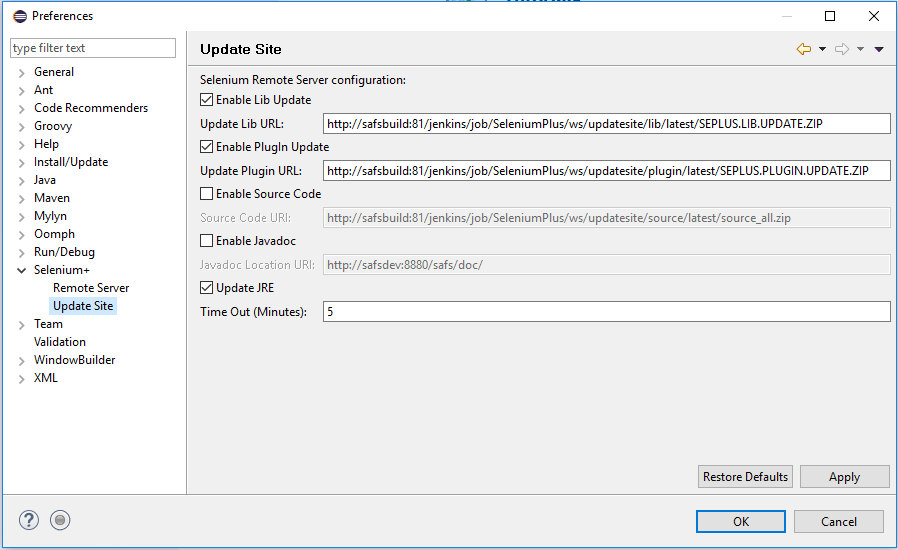
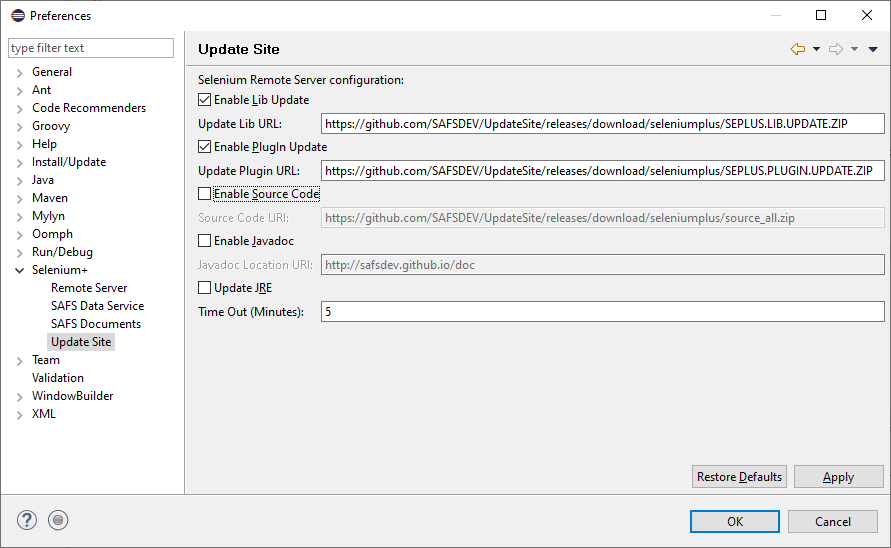
Using github update-site.

diff --git a/src/org/safs/selenium/install/doc/SeleniumPlus-Welcome.html b/src/org/safs/selenium/install/doc/SeleniumPlus-Welcome.html
@@ -1687,16 +1687,16 @@ Before update, make sure correct Selenium+ "<b>Update Site</b>" preferences are 
 	    <ol>
 	    <li>Enable Lib Update<br>
 	        It is used to enable/disable Library Update. There is an associate InputBox "Update Lib URL", where the Library Update URL can be modified.<br>
-	        Make sure that the URL starts with "<b>http://safsbuild:81</b>" if you want to get the latest support.
+	        Set the URL as "<b>https://github.com/SAFSDEV/UpdateSite/releases/download/seleniumplus/SEPLUS.LIB.UPDATE.ZIP</b>" if you want to get the latest support.
 	    <li>Enable Plugin Update<br>
 	        It is used to enable/disable Plugin Update. There is an associate InputBox "Update Plugin URL", where the Plugin Update URL can be modified.<br>
-	        Make sure that the URL starts with "<b>http://safsbuild:81</b>" if you want to get the latest support.
+	        Set the URL as "<b>https://github.com/SAFSDEV/UpdateSite/releases/download/seleniumplus/SEPLUS.PLUGIN.UPDATE.ZIP</b>" if you want to get the latest support.
 	    <li>Enable Source Code<br>
 	        It is used to enable/disable Source Code Update. There is an associate InputBox "Source Code URL", where the Source Code Update URL can be modified.<br>
-	        Make sure that the URL starts with "<b>http://safsbuild:81</b>" if you want to get the latest support.
+	        Set the URL as "<b>https://github.com/SAFSDEV/UpdateSite/releases/download/seleniumplus/source_all.zip</b>" if you want to get the latest support.
 	    <li>Enable Javadoc<br>
 	        It is used to enable/disable Javadoc in SeleniumPlus project. There is an associate InputBox "Javadoc Location URL", where the Javadoc Location URL can be modified.<br>
-	        Make sure that the URL is "<b>https://safsdev.github.io/doc</b>" if you want to get the latest support.
+	        Set the URL as "<b>http://safsdev.github.io/doc</b>" if you want to get the latest support.
 	    <li>Update JRE<br>
 	        It is used to enable/disable embedded JRE Update.
 	    </ol>
@@ -1738,24 +1738,19 @@ For Updating SeleniumPlus, following are the steps.
 	The batch script "<b>updateRuntime.bat</b>" can be used to update SeleniumPlus/SAFS.<br/>
 	This script expects that "SeleniumPlus"/"SAFS" has already successfully installed, so the system environment SELENIUM_PLUS/SAFSDIR has been defined correctly.<br/>
 	<p>
-	This script should be in folder %SELENIUM_PLUS%\extra or %SAFSDIR%\extra. If it does not exist, please get its <a href="http://safsbuild:81/jenkins/view/GITLAB_JOBS/job/SeleniumPlus/ws/source/common/org/safs/selenium/install/extra/updateRuntime.bat" target="blank">sourcecode</a> manually and copy it to "%SELENIUM_PLUS%\extra\".<br/>
+	This script should be in folder %SELENIUM_PLUS%\extra or %SAFSDIR%\extra. If it does not exist, please get its <a href="https://github.com/SAFSDEV/Core/blob/master/src/org/safs/selenium/install/extra/updateRuntime.bat" target="blank">sourcecode</a> manually and copy it to "%SELENIUM_PLUS%\extra\".<br/>
 	The script usage is <span class="sourcecodes">updateRuntime.bat [ALL|SE|SAFS]</span>, with parameter "SE" it updates SeleniumPlus, with "SAFS" it updates SAFS, with "ALL" it updates both "SeleniumPlus" and "SAFS".<br/>
 	So call <span class="commandline">updateRuntime.bat SE</span> to update SeleniumPlus. <span class="note">If the script is not latest, we might need to call <span class="commandline">updateRuntime.bat SE</span> twice to get SE+ really updated.</span><br/>
 
 	<p>
-	In the script, we are using the internal update resource which is faster. If you prefer using external update resource, then comment "internal resource" and un-comment "external resource".<br>
-	<span class="note">Currently user MUST use the internal site to get the latest update, as SAFS/SeleniumPlus development work will not be pushed to site out of SAS.</span>
+	In the script, we are using "github update resource".<br>
+	
 	<div class="CodeBox">
     <pre class="SourceCode">
-    <span class="comments">REM External update resource
-    REM SET SE_LIB_UPDATE=https://github.com/SAFSDEV/UpdateSite/releases/download/seleniumplus/SEPLUS.LIB.UPDATE.ZIP
-    REM SET SE_PLUGIN_UPDATE=https://github.com/SAFSDEV/UpdateSite/releases/download/seleniumplus/SEPLUS.PLUGIN.UPDATE.ZIP
-    REM SET SAFS_LIB_UPDATE=https://github.com/SAFSDEV/UpdateSite/releases/download/safs/SAFS.LIB.UPDATE.ZIP</span>
-
-    <span class="comments">REM Internal update resource</span>
-    SET SE_LIB_UPDATE=http://safsbuild:81/jenkins/job/SeleniumPlus/ws/updatesite/lib/latest/SEPLUS.LIB.UPDATE.ZIP
-    SET SE_PLUGIN_UPDATE=http://safsbuild:81/jenkins/job/SeleniumPlus/ws/updatesite/plugin/latest/SEPLUS.PLUGIN.UPDATE.ZIP
-    SET SAFS_LIB_UPDATE=http://safsbuild:81/jenkins/job/SAFS/ws/updatesite/lib/latest/SAFS.LIB.UPDATE.ZIP
+    <span class="comments">REM External github update resource</span>
+    SET SE_LIB_UPDATE=https://github.com/SAFSDEV/UpdateSite/releases/download/seleniumplus/SEPLUS.LIB.UPDATE.ZIP
+    SET SE_PLUGIN_UPDATE=https://github.com/SAFSDEV/UpdateSite/releases/download/seleniumplus/SEPLUS.PLUGIN.UPDATE.ZIP
+    SET SAFS_LIB_UPDATE=https://github.com/SAFSDEV/UpdateSite/releases/download/safs/SAFS.LIB.UPDATE.ZIP
     </pre>
     </div>
 <a href="#updatesoftware">[go back]</a>
@@ -1767,7 +1762,7 @@ If automated update fails then use manual steps to update SeleniumPlus environme
 	SeleniumPlus library update:
 	<ol>
 	<li>Shutdown Selenium+->RemoteServer->Stop and close Eclipse IDE.
-	<li>Go to <a href="http://safsbuild:81/jenkins/view/GITLAB_JOBS/job/SeleniumPlus/ws/updatesite/"
+	<li>Go to <a href="https://github.com/SAFSDEV/UpdateSite/releases/tag/seleniumplus"
 	           alt="SeleniumPlus Update Download Site" title="SeleniumPlus Update Download Site">
 	           SeleniumPlusUpdates</a> website.
 	<li>Click on lib/latest and download SEPLUS.LIB.UPDATE.ZIP.
@@ -1781,7 +1776,7 @@ If automated update fails then use manual steps to update SeleniumPlus environme
 	SeleniumPlus eclipse plugin update:
 	<ol>
 	<li>Shutdown Selenium+->RemoteServer->Stop and close Eclipse IDE.
-	<li>Go to <a href="http://safsbuild:81/jenkins/view/GITLAB_JOBS/job/SeleniumPlus/ws/updatesite/"
+	<li>Go to <a href="https://github.com/SAFSDEV/UpdateSite/releases/tag/seleniumplus"
 	           alt="SeleniumPlus Update Download Site" title="SeleniumPlus Update Download Site">
 	           SeleniumPlusUpdates</a> website.
 	<li>Click on plugin/latest and download SEPLUS.PLUGIN.UPDATE.ZIP.
